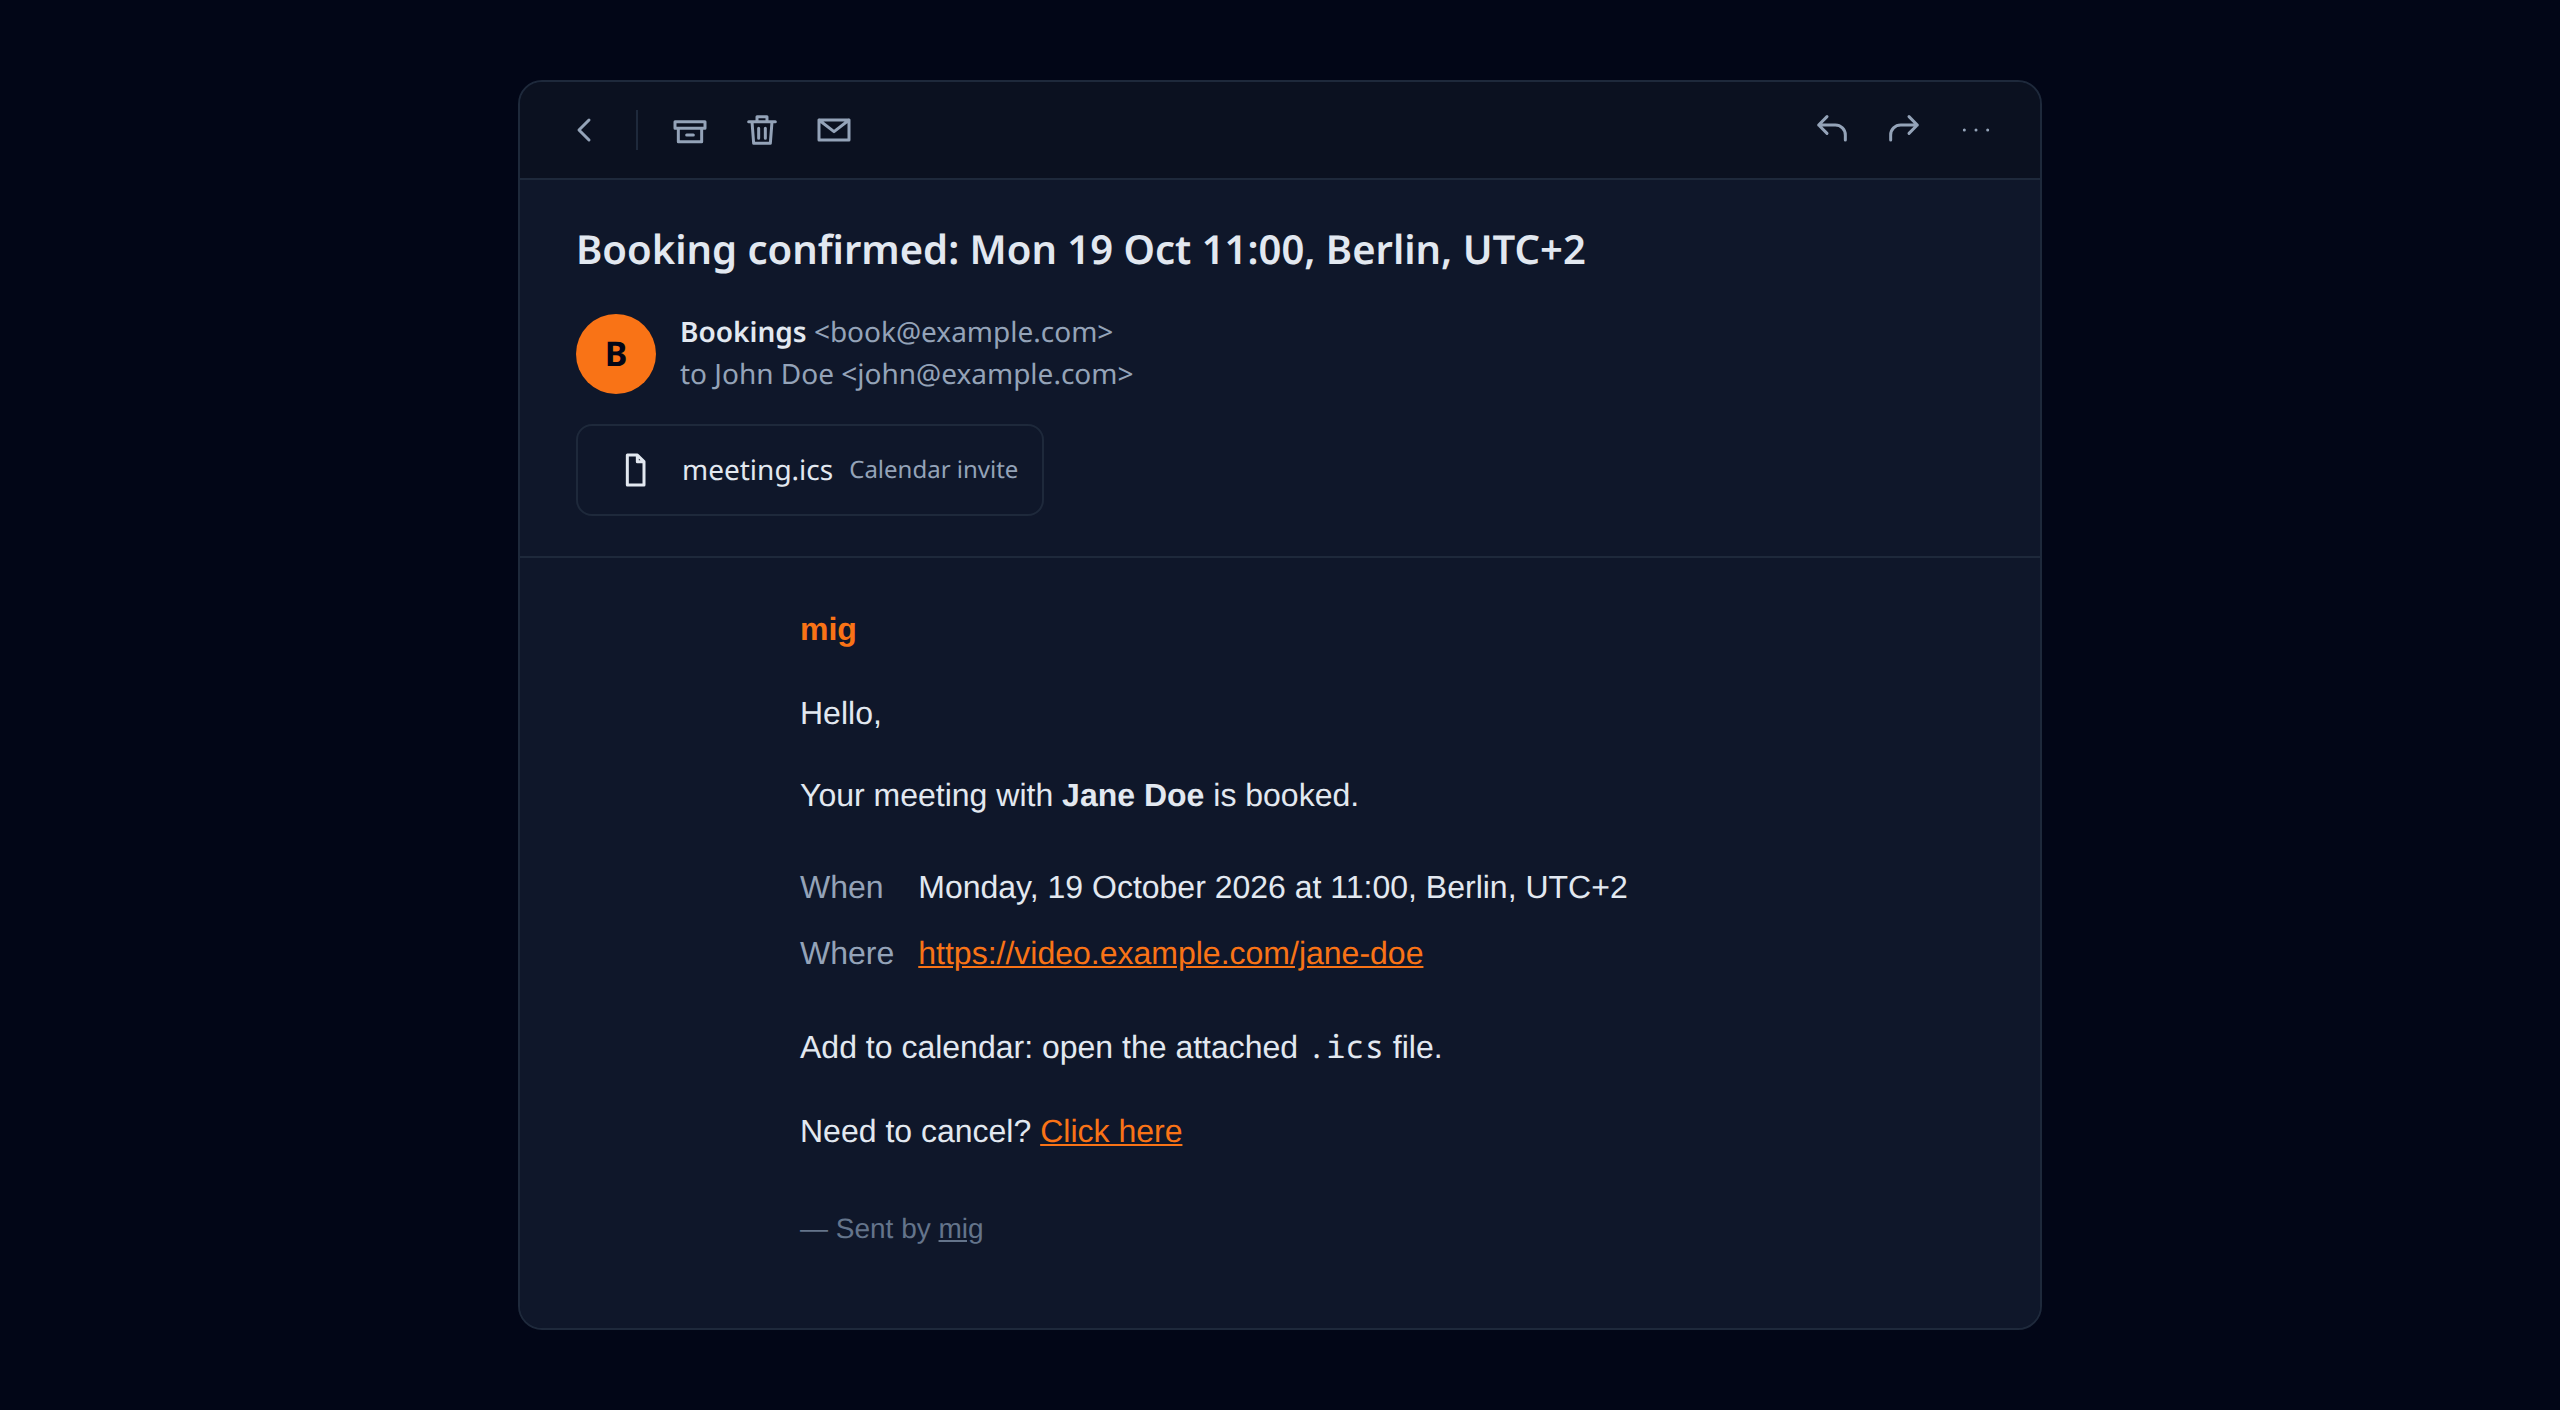
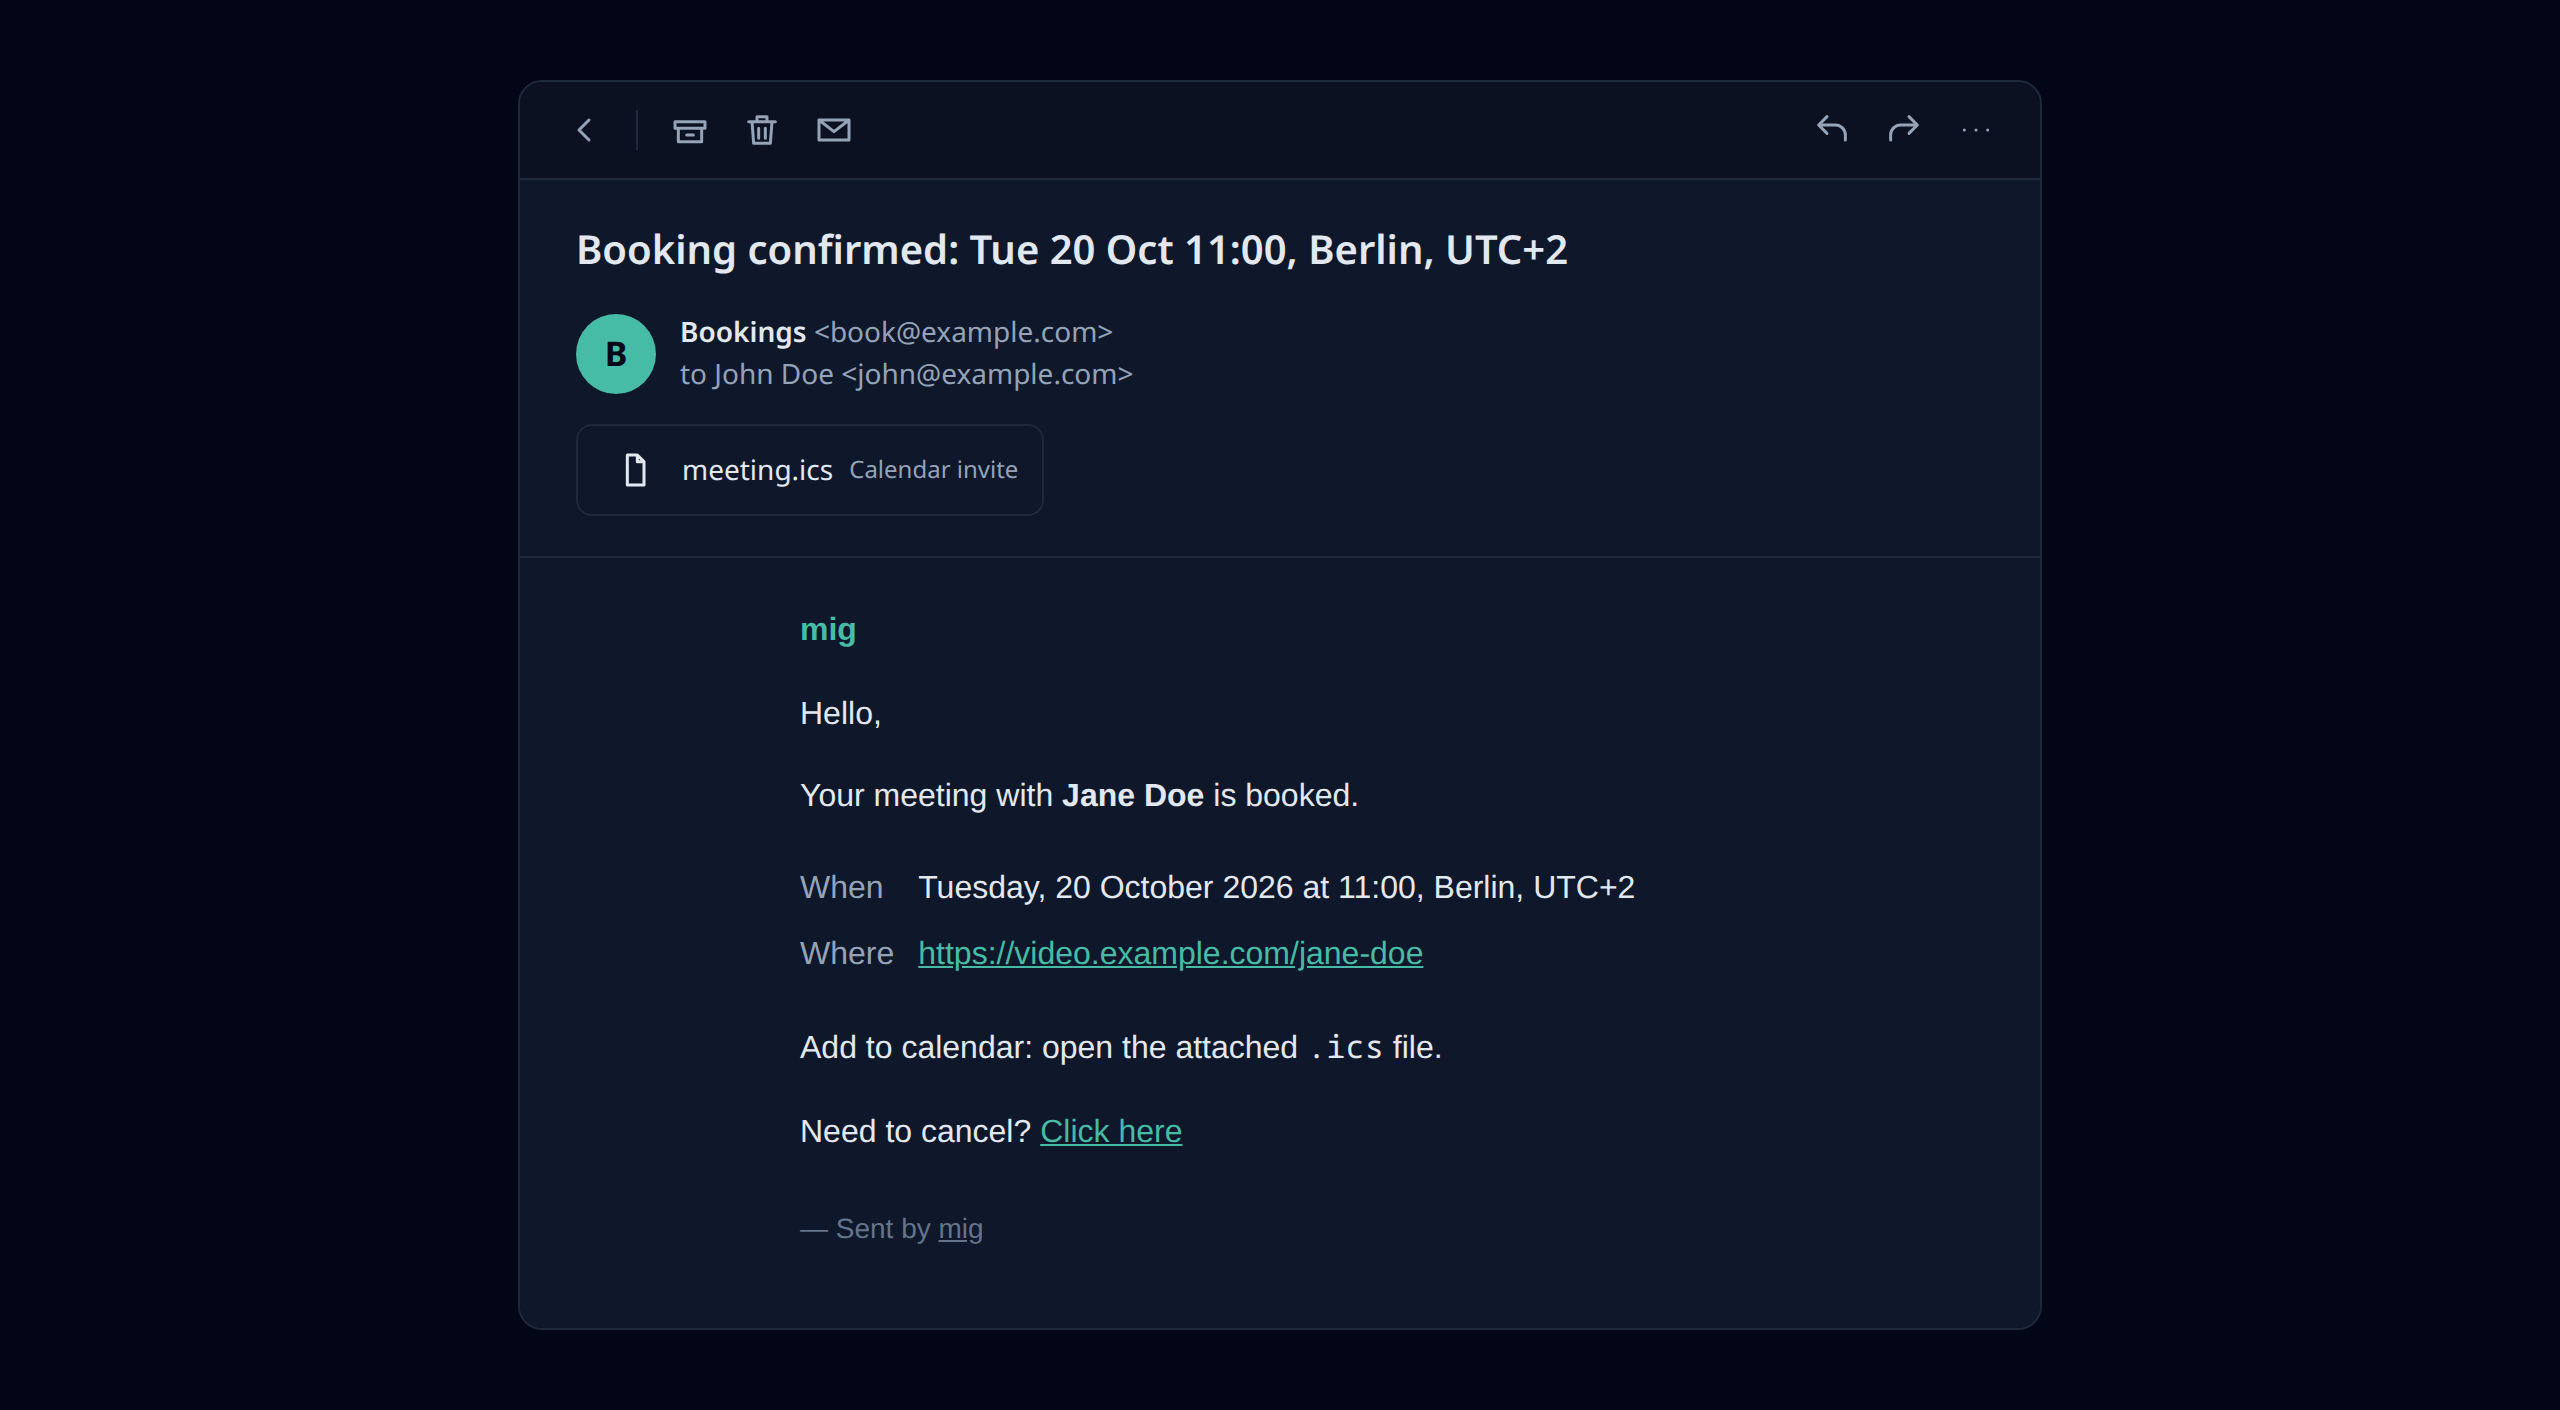
docs: regenerate the README pictures in teal

diff --git a/scripts/screenshots.ts b/scripts/screenshots.ts
@@ -202,7 +202,7 @@ const MAIL_FRAME = {
   line: "#1e293b",
   ink: "#e2e8f0",
   muted: "#94a3b8",
-  accent: "#f97316",
+  accent: "#46bba5",
 }
 
 /** One toolbar icon: a 20px stroked SVG path, the way mail clients draw them. */

diff --git a/.claude/skills/email-screenshot-frame/SKILL.md b/.claude/skills/email-screenshot-frame/SKILL.md
@@ -37,11 +37,11 @@ One 760 px card, centred, 40 px from the top, on a near-black page:
    joins, in the muted colour. They are decoration: no buttons, no labels, since
    nobody can click a picture.
 2. **Subject.** 20 px, semibold, in the ink colour.
-3. **Sender row.** A 40 px round avatar in mig's orange with the sender name's
-   first letter in the page colour; next to it the sender name (semibold) with
-   the address muted in angle brackets, and below that `to <recipient>`, muted.
-   The sender name and address are split from the `From` header; a header
-   without angle brackets shows whole as the name.
+3. **Sender row.** A 40 px round avatar in mig's teal link colour with the
+   sender name's first letter in the page colour; next to it the sender name
+   (semibold) with the address muted in angle brackets, and below that
+   `to <recipient>`, muted. The sender name and address are split from the
+   `From` header; a header without angle brackets shows whole as the name.
 4. **Attachment chip.** A bordered pill with a file icon, `meeting.ics` and a
    muted "Calendar invite", because every confirmation carries the `.ics`
    invite.
@@ -64,7 +64,7 @@ Tailwind's slate scale, kept in `MAIL_FRAME` in the script:
 | Lines and borders         | `#1e293b` |
 | Ink (subject, names)      | `#e2e8f0` |
 | Muted (icons, addresses)  | `#94a3b8` |
-| Avatar                    | `#f97316` |
+| Avatar                    | `#46bba5` |
 
 The card uses the email's own background, so the frame and the email read as one
 surface split by lines, not two boxes. If `lib/email.ts` changes its background,
